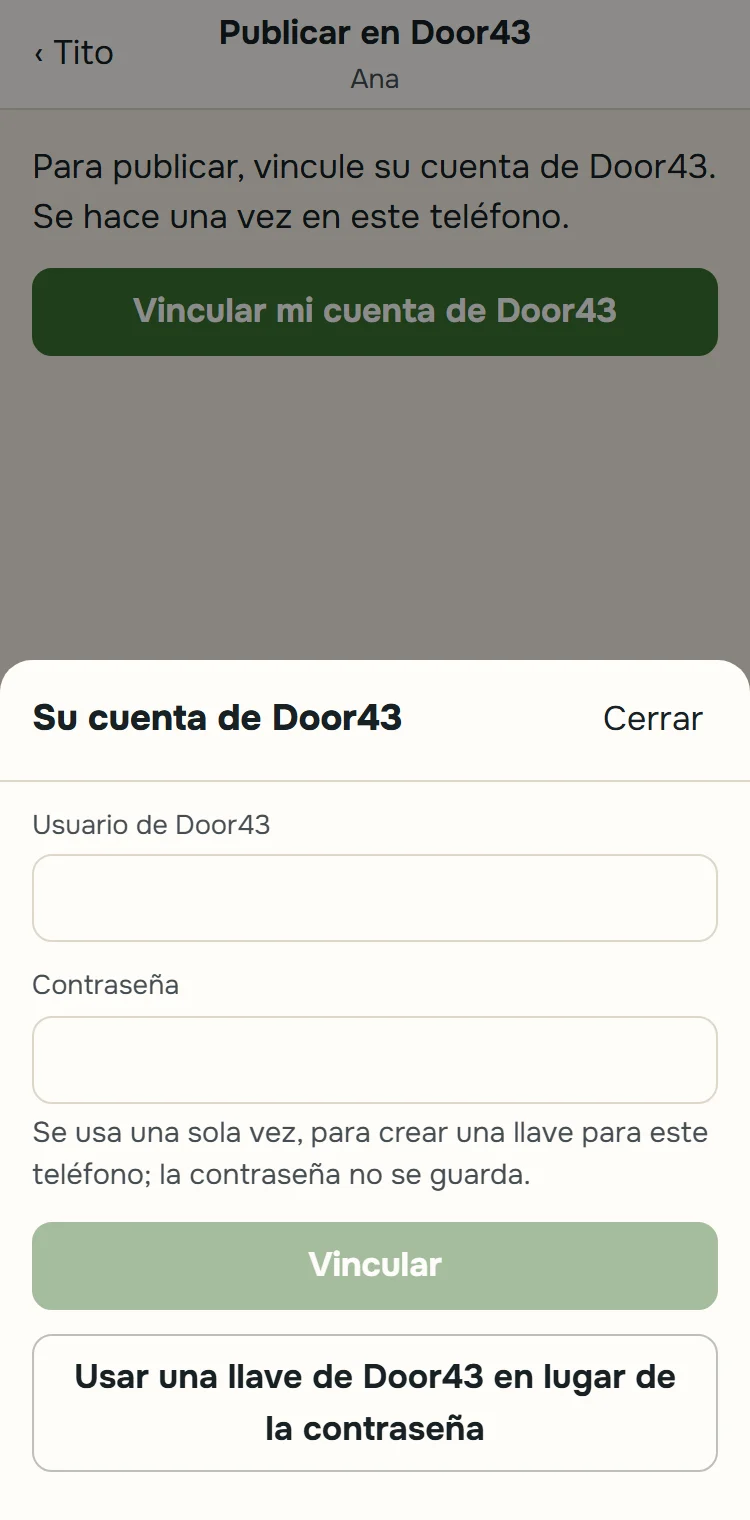
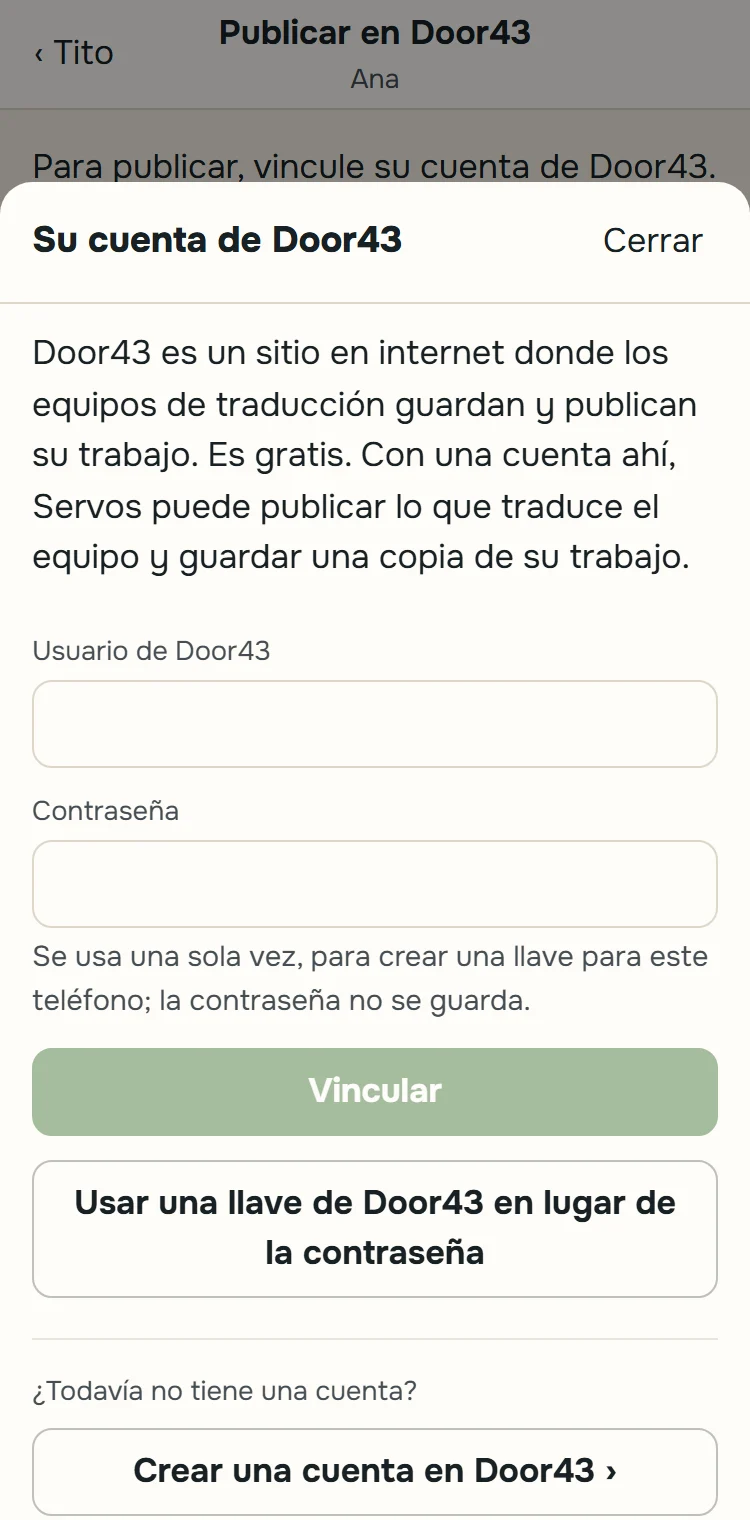
Retake the guide's screenshots for rc.2
The pictures showed rc.1: the book's steps as tabs, a home without the
glossary, the Door43 sheet without what Door43 is or how to make an
account. Retaken with scripts/capturas-guia.mjs from the rc.2 build and
packs.

The walk needed two more changes: the new «Otro idioma…» search is a
second search box on the new project's form, so the language search is
the first one; and the book's «Continuar» now goes back to the work done
last, so the walk opens the Translation step before the editor.

A new book's screen says «Para empezar», not «Siga donde quedó»: the
guide now says both, in es, en and pt.

diff --git a/sitio/pt/docs/2-primera-vez.md b/sitio/pt/docs/2-primera-vez.md
@@ -68,9 +68,9 @@ Um projeto é a tradução para um idioma. Quem coordena o cria uma vez e o comp
 3. Toque em **Criar Jonás** (ou o livro que escolheu).
 
 ![Escolher o livro](elegir-libro.webp "Em cima, os livros que têm textos e ajudas")
-![O livro e seus cinco passos](libro.webp "Em cima, o que você fez por último; embaixo, os passos")
+![O livro e seus cinco passos](libro.webp "Em cima, o que fazer agora; embaixo, os cinco passos")
 
-O livro se abre em **Continue de onde parou**, com o botão para voltar ao que você fez por último nele. Embaixo estão seus cinco passos, cada um com o que já foi feito: **Estudo**, **Tradução**, **Revisão**, **Leitura com a comunidade** e **Publicação**. Toque num passo para ver suas ferramentas; com **Voltar**, você retorna ao livro. Os passos não se fecham: a equipe pode voltar a qualquer um quando quiser.
+Em cima, o livro diz o que fazer agora: um livro novo começa em **Para começar**, com o Estudo; depois diz **Continue de onde parou**, com o botão para voltar ao que você fez por último nele. Embaixo estão seus cinco passos, cada um com o que já foi feito: **Estudo**, **Tradução**, **Revisão**, **Leitura com a comunidade** e **Publicação**. Toque num passo para ver suas ferramentas; com **Voltar**, você retorna ao livro. Os passos não se fecham: a equipe pode voltar a qualquer um quando quiser.
 
 O Servos também pergunta **como se diz o nome do livro** no idioma do povo: é assim que ele aparece no app e ao publicar. Você pode escrevê-lo agora ou depois, em **Mais › Nome do livro**.
 

diff --git a/sitio/es/docs/2-primera-vez.md b/sitio/es/docs/2-primera-vez.md
@@ -68,9 +68,9 @@ Un proyecto es la traducción a un idioma. Lo crea una vez quien coordina, y lo 
 3. Toque **Crear Jonás** (o el libro que eligió).
 
 ![Elegir el libro](elegir-libro.webp "Arriba, los libros que tienen textos y ayudas")
-![El libro y sus cinco pasos](libro.webp "Arriba, lo último que hizo; debajo, los pasos")
+![El libro y sus cinco pasos](libro.webp "Arriba, lo que toca hacer; debajo, los cinco pasos")
 
-El libro se abre en **Siga donde quedó**, con el botón para volver a lo último que hizo en él. Debajo están sus cinco pasos, cada uno con lo que lleva hecho: **Estudio**, **Traducción**, **Revisión**, **Lectura con la comunidad** y **Publicación**. Toque un paso para ver sus herramientas; con **atrás** vuelve al libro. Los pasos no se cierran: el equipo puede volver a cualquiera cuando quiera.
+Arriba, el libro dice qué toca hacer: un libro nuevo empieza en **Para empezar**, con el Estudio; después dice **Siga donde quedó**, con el botón para volver a lo último que hizo en él. Debajo están sus cinco pasos, cada uno con lo que lleva hecho: **Estudio**, **Traducción**, **Revisión**, **Lectura con la comunidad** y **Publicación**. Toque un paso para ver sus herramientas; con **atrás** vuelve al libro. Los pasos no se cierran: el equipo puede volver a cualquiera cuando quiera.
 
 Servos también pregunta **cómo se dice el nombre del libro** en el idioma del pueblo: así aparece en la app y al publicar. Puede escribirlo ahora o después, en **Más › Nombre del libro**.
 

diff --git a/sitio/en/docs/2-primera-vez.md b/sitio/en/docs/2-primera-vez.md
@@ -68,9 +68,9 @@ A project is the translation into one language. The person who coordinates creat
 3. Tap **Create Jonah** (or the book you chose).
 
 ![Choose the book](elegir-libro.webp "At the top, the books that have texts and helps")
-![The book and its five steps](libro.webp "At the top, the last thing you did; below, the steps")
+![The book and its five steps](libro.webp "At the top, what to do next; below, the five steps")
 
-The book opens at **Pick up where you left off**, with the button to go back to the last thing you did in it. Below are its five steps, each with how much is done: **Study**, **Translation**, **Checking**, **Reading with the community** and **Publishing**. Tap a step to see its tools; with **back** you return to the book. The steps do not close: the team can go back to any of them whenever it wants.
+At the top, the book says what to do next: a new book starts at **To begin**, with the Study; after that it says **Pick up where you left off**, with the button to go back to the last thing you did in it. Below are its five steps, each with how much is done: **Study**, **Translation**, **Checking**, **Reading with the community** and **Publishing**. Tap a step to see its tools; with **back** you return to the book. The steps do not close: the team can go back to any of them whenever it wants.
 
 Servos also asks **how to say the book's name** in the people's language: that is how it appears in the app and when you publish. You can write it now or later, in **More › Book name**.
 
